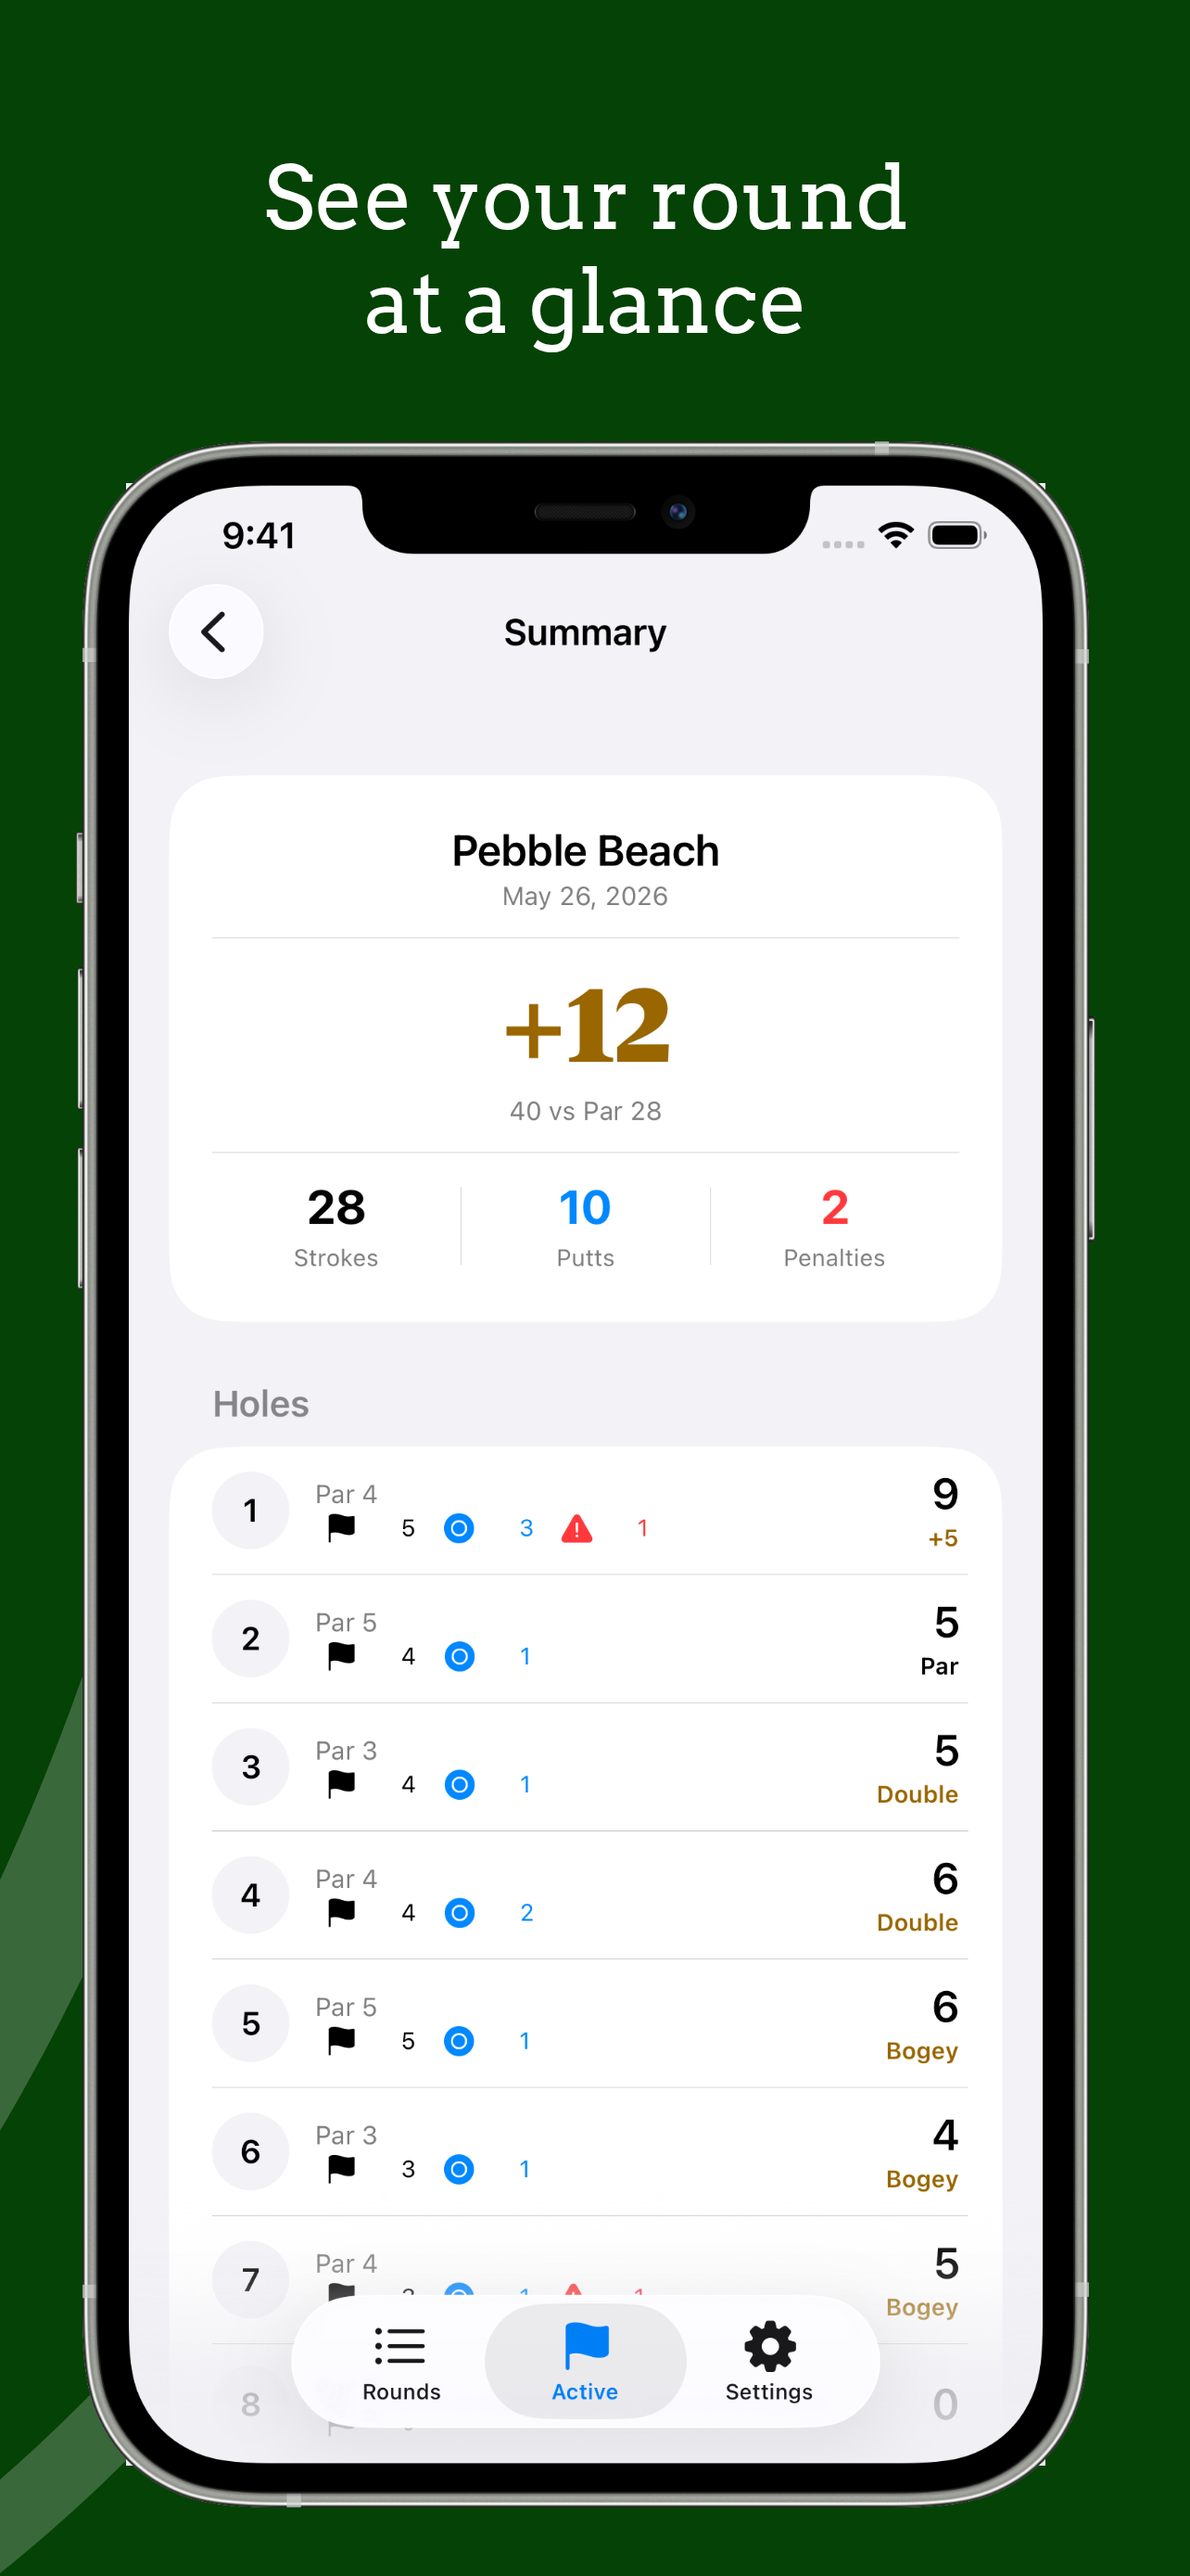
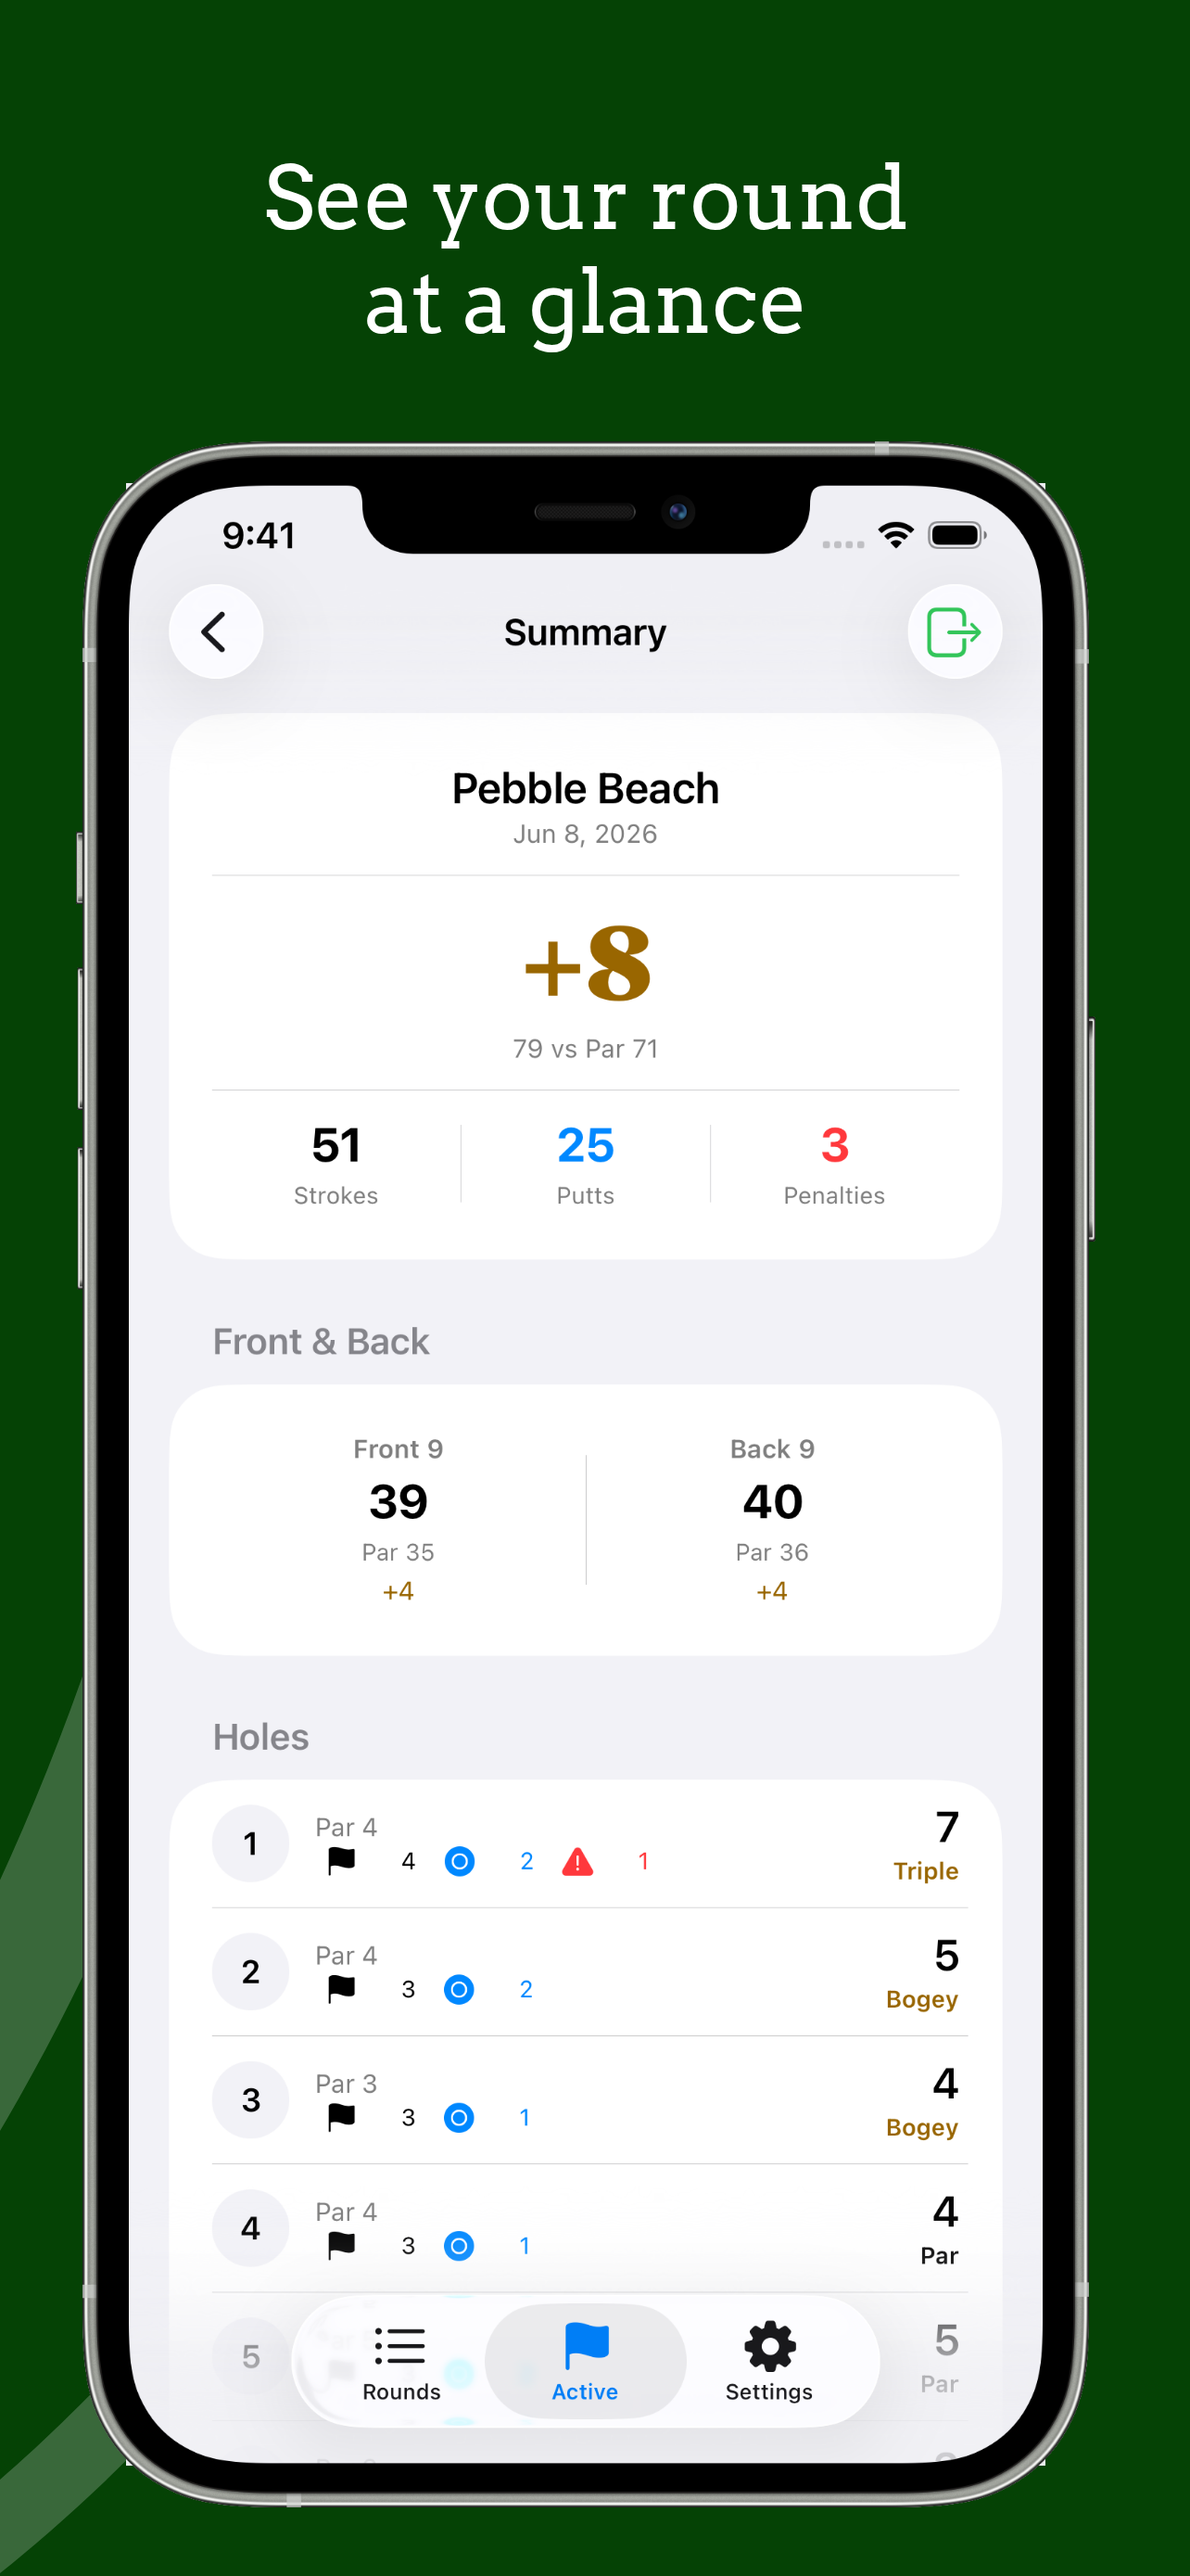
Update Golf Caddie page for Siri, Front 9/Back 9, and Share Scorecard
- Add Front 9 / Back 9 feature card and update Quick Start description
- Add Share Scorecard feature card (traditional golf marks, high-res export)
- Add round sorting by date and course name to Managing Rounds help card
- Add Card View / Share steps to Finishing a Round help card
- Expand Siri section to all 8 intents including parameterized Quick Start;
  note that intents run in the background and sync to Watch immediately
- Add iphone5.png and iphone6.png to screenshot gallery
- Pre-fill body on beta access and feedback mailto links

diff --git a/apps/golf-caddie/index.html b/apps/golf-caddie/index.html
@@ -343,8 +343,10 @@
   <div class="feature-grid">
     <div class="feature"><strong>Simple Scorecard</strong><br>Track strokes, putts, and penalties per hole with one tap.</div>
     <div class="feature"><strong>Score vs Par</strong><br>Birdie, Bogey, Eagle and more — see how you stack up every hole.</div>
-    <div class="feature"><strong>Quick Start</strong><br>9 or 18 holes, all Par 4 — start scoring in seconds.</div>
+    <div class="feature"><strong>Quick Start</strong><br>Front 9, Back 9, or 18 holes — start scoring in seconds, no setup needed.</div>
     <div class="feature"><strong>Custom Pars</strong><br>Set par for any course layout, any hole.</div>
+    <div class="feature"><strong>Front 9 / Back 9</strong><br>Play just the front or back nine. Holes, par, and score all adjust automatically.</div>
+    <div class="feature"><strong>Share Scorecard</strong><br>Export a clean scorecard image with traditional golf marks — eagle, birdie, bogey and more.</div>
     <div class="feature"><strong>Apple Watch</strong><span class="pro-badge">Pro</span><br>Lightweight scoring from your wrist. Won't drain your battery.</div>
     <div class="feature"><strong>Siri</strong><span class="pro-badge">Pro</span><br>Add strokes, advance holes, and check your score hands-free.</div>
     <div class="feature"><strong>Free 14-Day Trial</strong><br>Try Pro free — no credit card required. Unlock forever for just $2.99.</div>
@@ -357,6 +359,8 @@
     <h2>Score hands-free with Siri</h2>
     <p class="siri-sub">No need to take your phone out. Just say it.</p>
     <div class="siri-commands">
+      <div class="siri-cmd">"Start a 9 hole round in Golf Caddie"</div>
+      <div class="siri-cmd">"Start a back 9 round in Golf Caddie"</div>
       <div class="siri-cmd">"Add a stroke in Golf Caddie"</div>
       <div class="siri-cmd">"Add a putt in Golf Caddie"</div>
       <div class="siri-cmd">"Add a penalty in Golf Caddie"</div>
@@ -377,6 +381,7 @@
     <img class="screenshot" src="images/iphone3.png" alt="Golf Caddie round summary" width="1284" height="2778" loading="lazy">
     <img class="screenshot" src="images/iphone4.png" alt="Golf Caddie hole detail" width="1284" height="2778" loading="lazy">
     <img class="screenshot" src="images/iphone5.png" alt="Golf Caddie Siri support" width="1284" height="2778" loading="lazy">
+    <img class="screenshot" src="images/iphone6.png" alt="Golf Caddie scorecard share" width="1284" height="2778" loading="lazy">
   </div>
 
   <h2>Apple Watch Screenshots</h2>
@@ -398,8 +403,9 @@
       </div>
       <ul>
         <li>Start a round instantly with all holes set to <strong>Par 4</strong>.</li>
-        <li>Choose either <strong>9 holes</strong> or <strong>18 holes</strong>.</li>
+        <li>Choose <strong>Front 9</strong> (holes 1–9), <strong>18 Holes</strong>, or <strong>Back 9</strong> (holes 10–18).</li>
         <li>Quick Start is available on both iPhone and Apple Watch.</li>
+        <li>You can also say <strong>"Start a back 9 round in Golf Caddie"</strong> to Siri.</li>
         <li>Perfect for casual rounds or when you don't want to enter course details.</li>
       </ul>
     </div>
@@ -423,6 +429,7 @@
       </div>
       <ul>
         <li>From the home screen, manage any saved round.</li>
+        <li>Sort rounds by <strong>date</strong> or <strong>course name</strong> using the menu at the top.</li>
         <li>Swipe <strong>right</strong> to show the <strong>Copy</strong> and <strong>Rename</strong> buttons.</li>
         <li>Swipe <strong>left</strong> to show the <strong>Delete</strong> button.</li>
         <li>Copying creates a new round with the same setup.</li>
@@ -489,6 +496,8 @@
       <ul>
         <li>A round is complete once all holes have scores.</li>
         <li>You can still make changes after finishing.</li>
+        <li>Tap <strong>Card View</strong> in the summary to see a traditional scorecard layout.</li>
+        <li>Tap <strong>Share</strong> to export a high-res scorecard image — traditional golf marks included.</li>
         <li>Your rounds appear in the history on the home screen.</li>
       </ul>
     </div>
@@ -513,14 +522,16 @@
         <h3 class="help-card-title">Using Siri</h3>
       </div>
       <ul>
+        <li><strong>"Start a 9 hole round"</strong> — starts a Quick Start round (supports Front 9, Back 9, or 18 holes).</li>
         <li><strong>"Add a stroke"</strong> — increments strokes on the current hole.</li>
         <li><strong>"Add a putt"</strong> — increments putts on the current hole.</li>
         <li><strong>"Add a penalty"</strong> — increments penalties on the current hole.</li>
         <li><strong>"Next hole"</strong> — advances to the next hole and syncs to Watch.</li>
         <li><strong>"What hole am I on?"</strong> — reports hole number, strokes, and score term.</li>
         <li><strong>"What's my round score?"</strong> — reports gross total and over/under par.</li>
-        <li><strong>"What's my hole score?"</strong> — reports the current hole using golf terms (Eagle, Birdie, Bogey, etc.).</li>
-        <li>Works on iPhone and Apple Watch · Requires active Pro trial or purchase.</li>
+        <li><strong>"What's my hole score?"</strong> — reports using golf terms (Eagle, Birdie, Bogey, etc.).</li>
+        <li>All intents run in the background without opening the app and sync to Watch immediately.</li>
+        <li>Requires active Pro trial or purchase.</li>
       </ul>
     </div>
 
